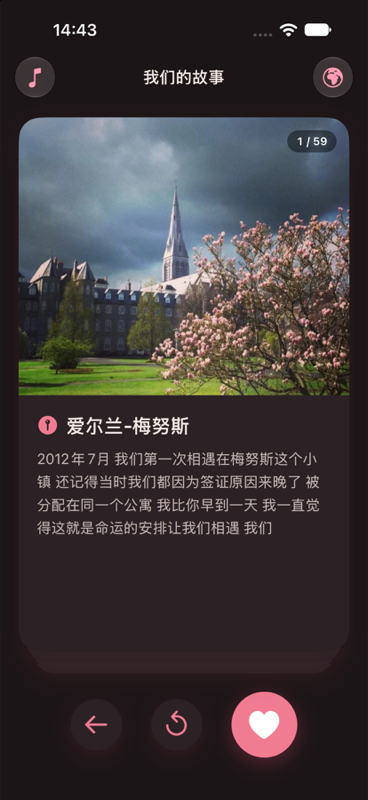
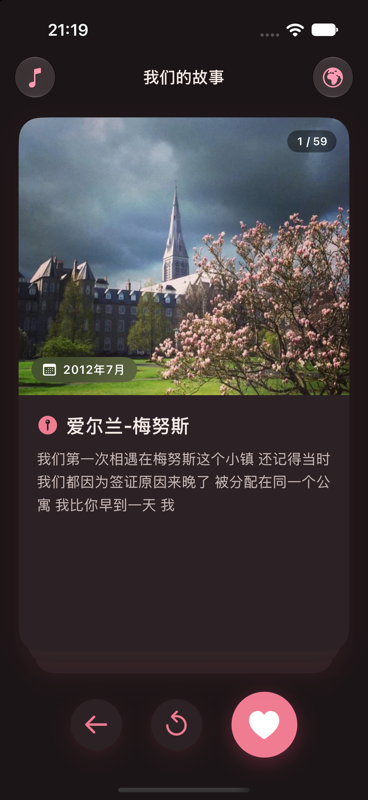
Show the story date as a badge on the card photo
A frosted capsule in the photo's bottom-left corner, hidden for undated stories. Updates the README, CLAUDE.md and the screenshots.

diff --git a/OurStories/View/CardView.swift b/OurStories/View/CardView.swift
@@ -15,6 +15,7 @@ class CardView: UIView
             guard let story = story else { return }
             imageView.image = UIImage(named: story.imageName)
             locationLabel.text = story.location
+            dateText = story.date?.displayText
         }
     }
 
@@ -27,6 +28,19 @@ class CardView: UIView
             ]))
             pageBadge.configuration = configuration
             pageBadge.isHidden = pageText == nil
+        }
+    }
+
+    /// Shown in the bottom corner of the photo, like the date stamp on a print; hidden for undated stories.
+    private var dateText: String? {
+        didSet{
+            var configuration = dateBadge.configuration
+            configuration?.attributedTitle = AttributedString(dateText ?? "", attributes: AttributeContainer([
+                .font: UIFont.systemFont(ofSize: 13, weight: .semibold),
+                .kern: 0.6
+            ]))
+            dateBadge.configuration = configuration
+            dateBadge.isHidden = dateText == nil
         }
     }
 
@@ -47,6 +61,23 @@ class CardView: UIView
         let badge = UIButton(configuration: configuration)
         badge.isUserInteractionEnabled = false
         badge.isHidden = true
+        return badge
+    }()
+
+    let dateBadge: UIButton = {
+        var configuration = UIButton.Configuration.filled()
+        configuration.image = UIImage(systemName: "calendar",
+                                      withConfiguration: UIImage.SymbolConfiguration(pointSize: 11, weight: .semibold))
+        configuration.imagePadding = 6
+        configuration.baseForegroundColor = .white
+        configuration.background.backgroundColor = .clear
+        configuration.background.customView = UIVisualEffectView(effect: UIBlurEffect(style: .systemUltraThinMaterialDark))
+        configuration.cornerStyle = .capsule
+        configuration.contentInsets = NSDirectionalEdgeInsets(top: 6, leading: 11, bottom: 6, trailing: 12)
+        let badge = UIButton(configuration: configuration)
+        badge.isUserInteractionEnabled = false
+        badge.isHidden = true
+        badge.accessibilityIdentifier = "date"
         return badge
     }()
 
@@ -114,6 +145,11 @@ class CardView: UIView
         contentView.addSubview(pageBadge)
         pageBadge.anchor(top: contentView.topAnchor, left: nil, bottom: nil, right: contentView.rightAnchor,
                          paddingTop: 14, paddingLeft: 0, paddingBottom: 0, paddingRight: 14,
+                         width: 0, height: 0)
+
+        contentView.addSubview(dateBadge)
+        dateBadge.anchor(top: nil, left: contentView.leftAnchor, bottom: imageView.bottomAnchor, right: nil,
+                         paddingTop: 0, paddingLeft: 14, paddingBottom: 14, paddingRight: 0,
                          width: 0, height: 0)
 
         contentView.addSubview(locationIcon)

diff --git a/CLAUDE.md b/CLAUDE.md
@@ -32,7 +32,7 @@ xcodebuild -project OurStories.xcodeproj -scheme OurStories \
 
 **No storyboards for UI** (only `LaunchScreen.storyboard`). The app uses the scene lifecycle: `Info.plist` declares `SceneDelegate`, which builds the window by hand with `UINavigationController(rootViewController: MainViewController())` as root. All views are built in code with lazy/closure-initialised properties and laid out with the `UIView.anchor(top:left:bottom:right:padding…:width:height:)` helper in `Utils/UIView+Helper.swift` — use that helper rather than raw constraints or Interface Builder.
 
-**All content is hardcoded in `Model/Story.swift`.** `Story.storyGenerate()` returns the full, ordered array of stories (location, text, image name, coordinate). There is no persistence or networking. Both screens call it independently:
+**All content is hardcoded in `Model/Story.swift`.** `Story.storyGenerate()` returns the full, ordered array of stories (location, date, text, image name, coordinate). `date` is an optional `StoryDate` (year, month, optional day) — the placeholder stories have none — and it is not repeated in the story text; `CardView` shows `date.displayText` in the `dateBadge` capsule on the photo and the map uses it as the marker subtitle. There is no persistence or networking. Both screens call it independently:
 
 - `MainViewController` — a `CardDeckView` card deck, one `CardView` per story, with previous / reset / next buttons. When the deck runs out it starts over from the first story. The navigation bar has a music toggle on the left and the map button on the right.
 - `MapViewController` — an `MKMapView` with one `VisitPlace` marker per story, zoomed to fit all of them.

diff --git a/README.md b/README.md
@@ -74,11 +74,15 @@ markers from the same array.
 
 ```swift
 Story(location: "爱尔兰-梅努斯",
-      storyContent: "2012年7月 我们第一次相遇在梅努斯这个小镇 ...",
+      date: StoryDate(year: 2012, month: 7),
+      storyContent: "我们第一次相遇在梅努斯这个小镇 ...",
       imageName: "1.png",
       coordinate: CLLocationCoordinate2D(latitude: 53.381210, longitude: -6.592220)),
 ```
 
+- `date` is shown as a badge on the photo (`2012年7月`) and under the place name on
+  the map. Add `day:` when the exact day matters (`2021年7月7日`), or leave `date`
+  out and the badge is hidden. Keep the date out of `storyContent`.
 - `imageName` is `"N.png"`, which refers to the image set named `N` in
   `Assets.xcassets`. To add a photo, create a new image set with the next number
   and drop the picture in.
